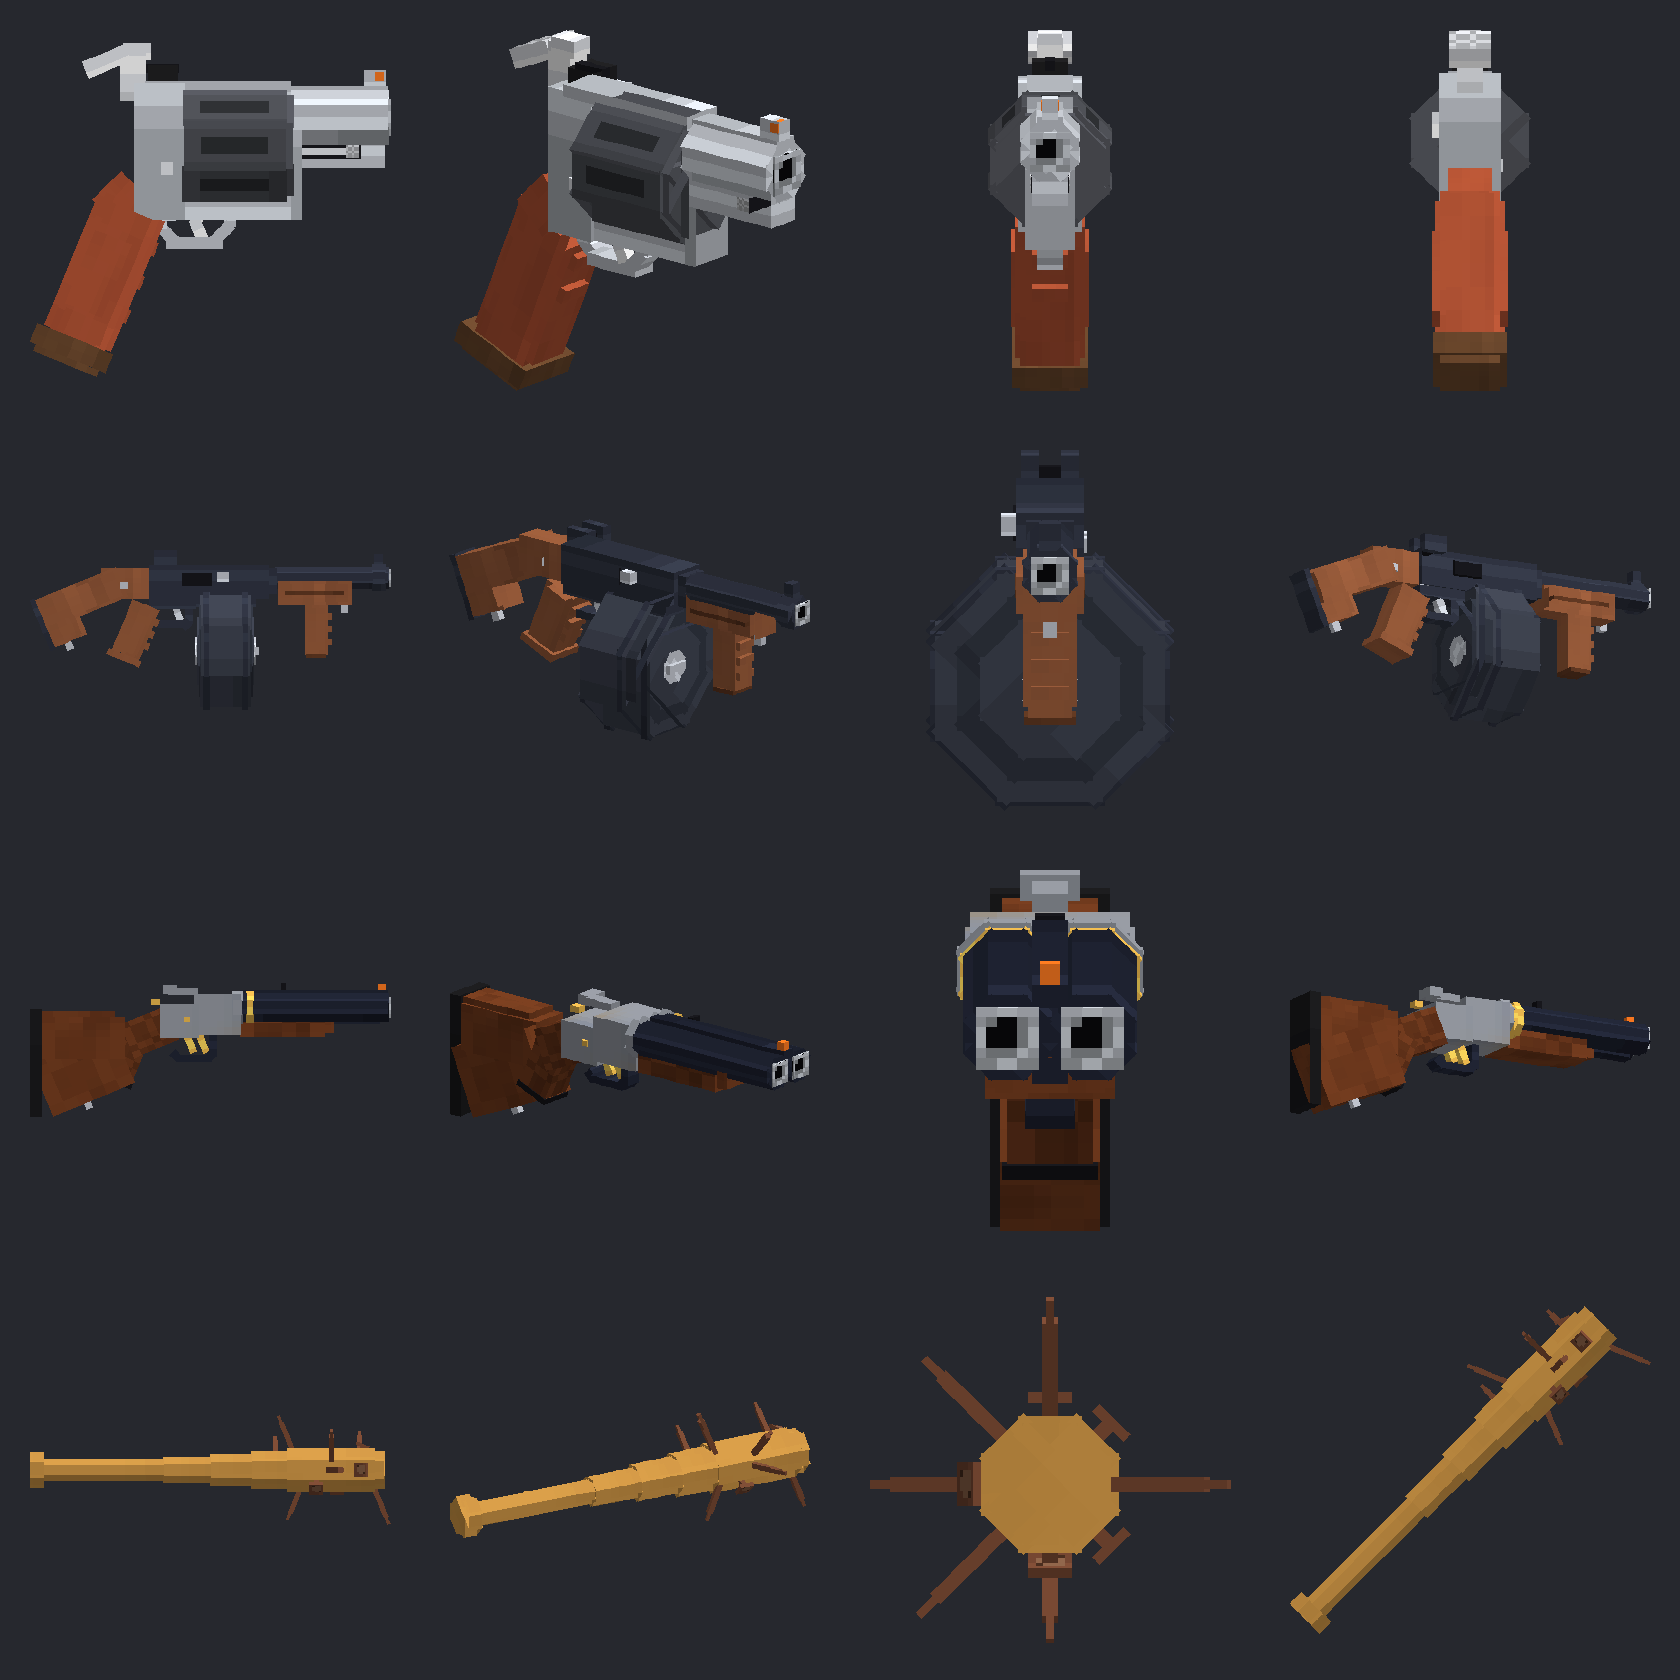
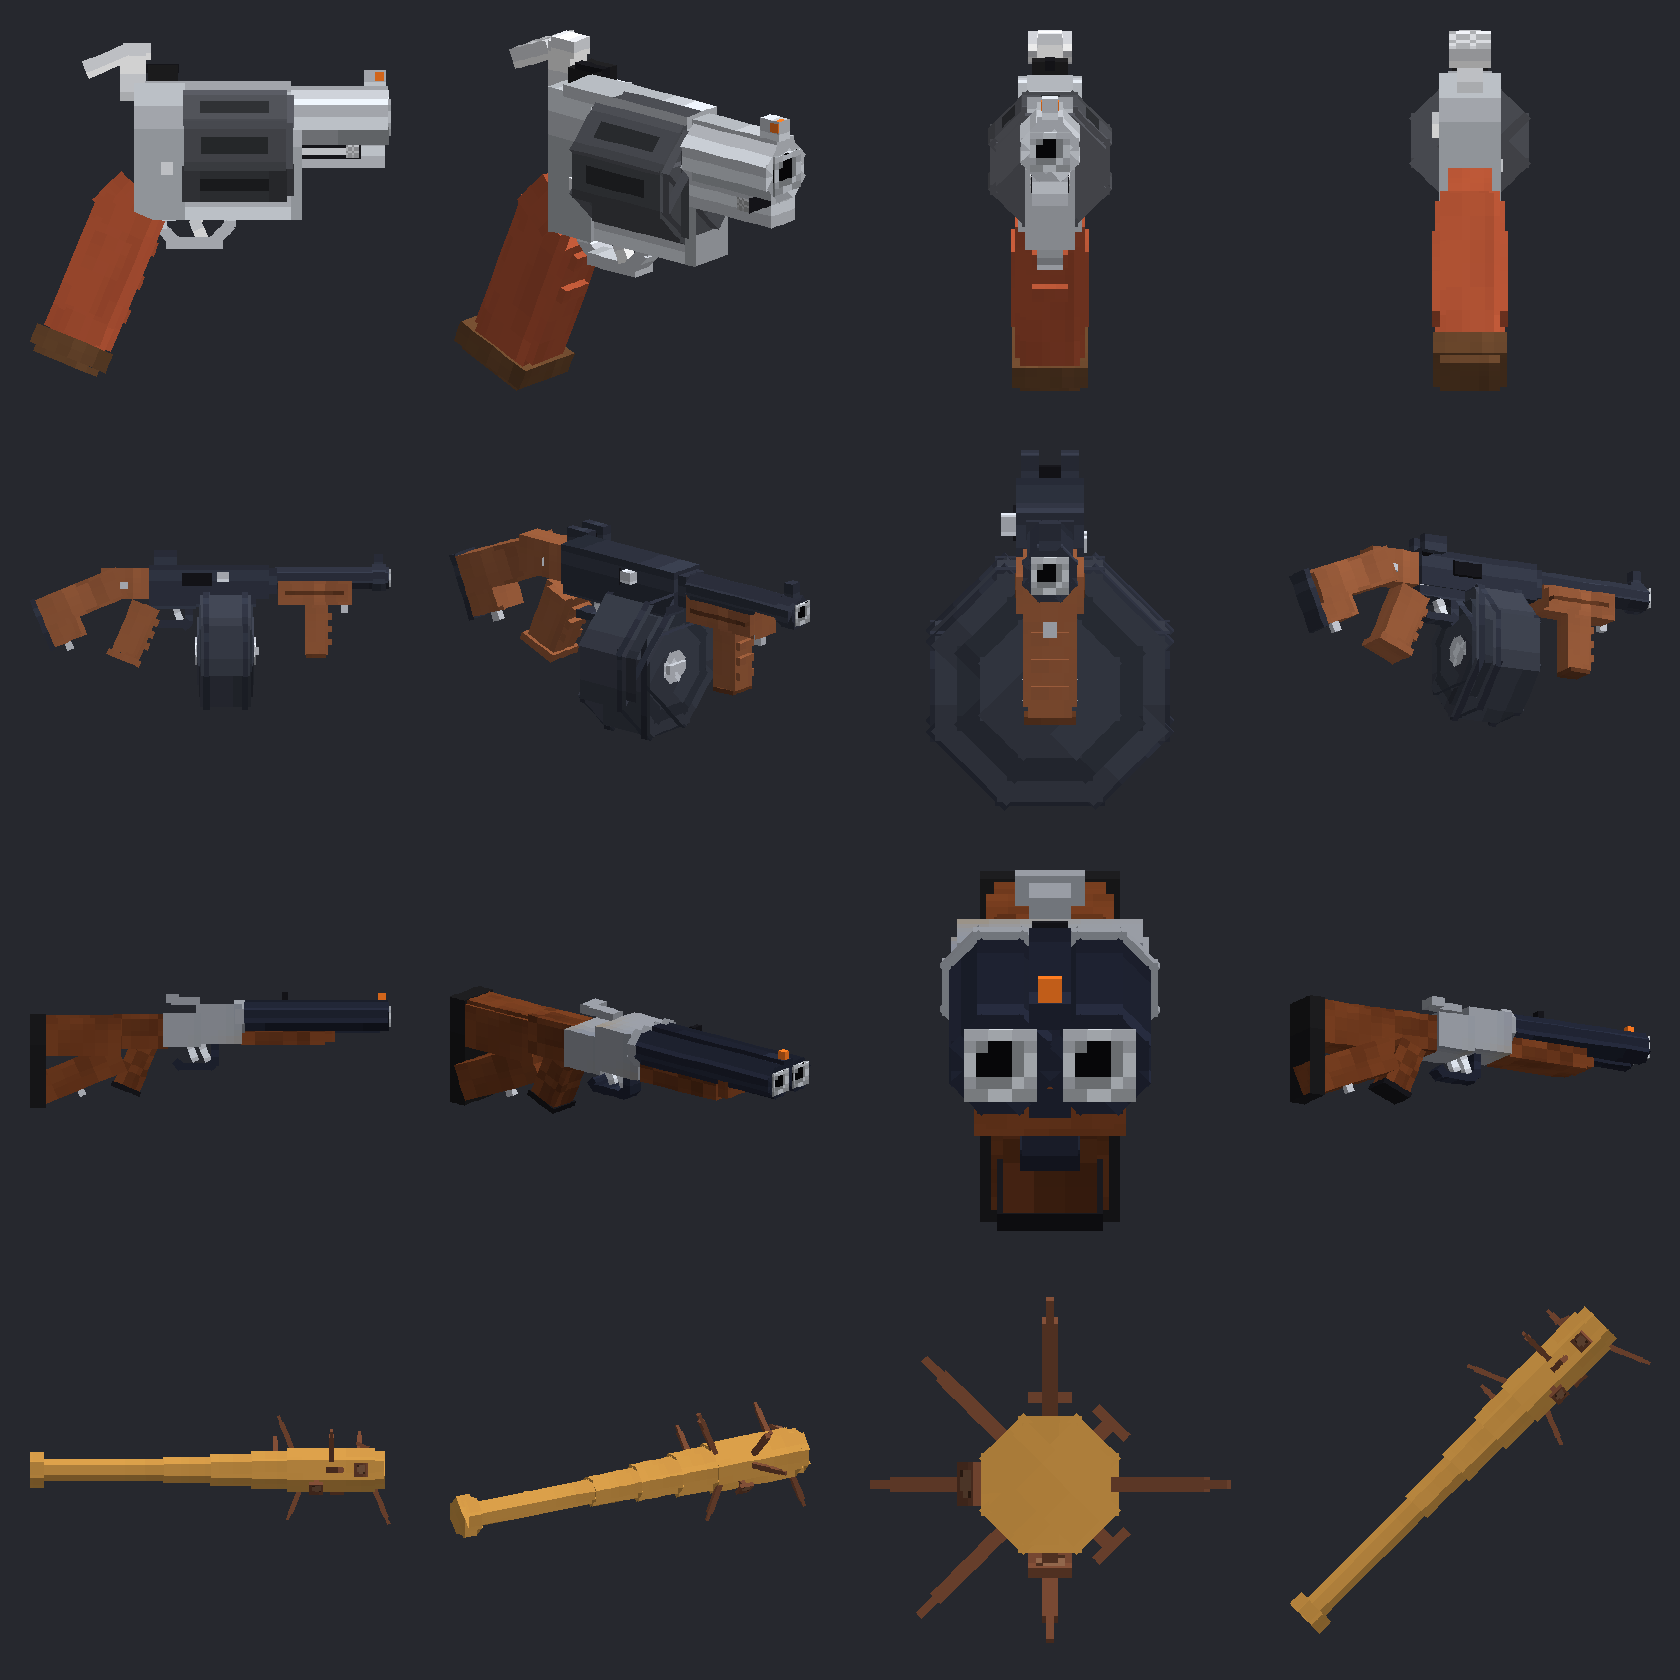
Double Barrel: no gold trim, steel triggers, stock rebuilt as one continuous shape
Claude-Session: https://claude.ai/code/session_01G8stAj2NsEdEgKC46eLYfu

diff --git a/tools/make_pack.py b/tools/make_pack.py
@@ -342,8 +342,8 @@ box((7.6, 4.6, 27.8), (8.4, 5.6, 28.6), "polished", rot=ST)          # sling swi
 TOMMY = elements
 
 # ---------------- geometry: double-barrel shotgun ----------------
-# A side-by-side double modelled on a fine English sidelock (blued barrels with gold bands, case-hardened action,
-# figured walnut, cheekpiece, black recoil pad), with cartoon proportions: short fat barrels, chunky everything.
+# A side-by-side double modelled on a fine English sidelock (blued barrels, case-hardened action, figured walnut,
+# cheekpiece, black recoil pad), with cartoon proportions: short fat barrels, chunky everything, no gold trim.
 rng_sg = random.Random(23)
 def tex_case():
     """Colour case-hardening, cartoon style: a few big soft patches of grey, blue and amber."""
@@ -368,7 +368,7 @@ def tex_checkered(base):
         for x in range(16):
             if (x + y) % 3 == 0 or (x - y) % 3 == 0: px[x, y] = shade(px[x, y], 0.84)
     return im
-SG_TEX = {"blued": tex_metal((30, 34, 48), 5), "case": tex_case(), "gold": tex_metal((214, 168, 72), 10),
+SG_TEX = {"blued": tex_metal((30, 34, 48), 5), "case": tex_case(),
           "orange": flat((255, 110, 30), 6), "bore": tex_bore(), "dark": flat((22, 22, 26)),
           "polished": tex_metal((176, 180, 188), 5), "walnut": tex_figured((112, 58, 30)),
           "checkered": tex_checkered((112, 58, 30)), "rubber": flat((26, 26, 28), 3)}
@@ -376,9 +376,8 @@ for k, im in SG_TEX.items(): im.save(path("assets", NS, "textures", "item", "sho
 
 elements = []
 # two fat barrels side by side, a flat rib on top with an orange bead and a little rear sight
-for bx, d in ((6.3, 0.0), (9.7, 0.02)):   # d: the right barrel's parts sit a hair apart so overlaps never z-fight
+for bx in (6.3, 9.7):
     round_prism(bx, 11.0, 3.4, -14.0, 4.6, "blued")
-    round_prism(bx, 11.0 + d, 3.8, 3.0 + d, 3.6 + d, "gold")            # gold band near the breech
     box((bx - 1.25, 9.75, -14.32), (bx + 1.25, 12.25, -14.22), "bore")  # muzzle
 box((7.3, 12.2, -14.0), (8.7, 13.1, 4.6), "blued")                     # top rib
 box((7.3, 9.0, -13.0), (8.7, 10.0, 4.5), "blued")                      # bottom rib
@@ -389,12 +388,9 @@ box((4.8, 7.6, 4.6), (11.2, 12.6, 10.4), "case")
 round_prism(6.3, 11.0, 4.0, 4.4, 5.4, "case")                          # fences
 round_prism(9.7, 11.02, 4.0, 4.42, 5.42, "case")
 box((4.6, 7.2, 9.8), (11.4, 11.4, 14.6), "case")                       # side plates
-box((4.5, 9.2, 11.0), (4.6, 9.8, 11.6), "gold")                        # lock pins
-box((11.4, 9.2, 11.0), (11.5, 9.8, 11.6), "gold")
-# top lever and safety on the tang
+# top lever on the tang
 box((7.3, 12.6, 10.0), (8.7, 13.4, 13.6), "case")
 box((6.8, 12.8, 12.6), (9.2, 13.8, 14.2), "case")                      # thumbpiece
-box((7.5, 11.4, 14.8), (8.5, 12.0, 15.8), "gold")                      # safety slide
 # splinter forend under the barrels, checkered on the sides
 box((5.4, 7.4, -6.0), (10.6, 9.8, 4.6), "walnut", {"east": "checkered", "west": "checkered"})
 box((5.8, 7.8, -7.2), (10.2, 9.6, -6.0), "walnut")                     # rounded tip
@@ -403,21 +399,21 @@ box((7.0, 4.2, 8.2), (9.0, 5.0, 12.6), "blued")
 box((7.05, 4.8, 7.6), (8.95, 7.6, 8.4), "blued")
 box((7.0, 4.4, 7.8), (9.0, 5.4, 9.0), "blued", rot=("x", 45, (8, 5.0, 8.4)))
 box((7.0, 4.4, 12.0), (9.0, 5.4, 13.2), "blued", rot=("x", -45, (8, 5.0, 12.6)))
-box((7.5, 5.2, 9.2), (8.5, 7.6, 10.0), "gold", rot=("x", 22.5, (8, 7.2, 9.6)))      # front trigger
-box((7.5, 5.2, 10.8), (8.5, 7.6, 11.6), "gold", rot=("x", 22.5, (8, 7.2, 11.2)))    # back trigger
-# stock: a checkered wrist dropping to a pistol grip, then a figured butt with a cheekpiece and a recoil pad
-WR = ("x", 22.5, (8, 11.0, 14.0))
-box((6.0, 6.6, 14.0), (10.0, 11.2, 20.0), "checkered", rot=WR)         # wrist
-PG = ("x", -22.5, (8, 7.0, 18.0))
-box((6.3, 1.6, 16.2), (9.7, 7.4, 19.8), "checkered", rot=PG)           # pistol grip
-box((6.1, 1.0, 16.0), (9.9, 1.6, 20.0), "dark", rot=PG)                # grip cap
-box((5.8, 4.6, 19.2), (10.2, 9.8, 29.6), "walnut")                     # butt
-box((6.1, 9.8, 20.4), (9.9, 10.5, 29.6), "walnut")                     # rounded comb
-BELLY = ("x", 22.5, (8, 5.0, 19.4))
-box((6.0, 1.2, 19.4), (10.0, 9.0, 30.4), "walnut", rot=BELLY)          # underside sloping down to the toe
-box((5.3, 5.4, 21.4), (5.8, 9.2, 28.2), "walnut")                      # cheekpiece (left side)
-box((5.6, -2.8, 29.6), (10.4, 10.7, 31.0), "rubber")                   # recoil pad
-box((7.6, 0.4, 25.4), (8.4, 1.2, 26.2), "polished", rot=BELLY)         # sling swivel
+box((7.5, 5.2, 9.2), (8.5, 7.6, 10.0), "polished", rot=("x", 22.5, (8, 7.2, 9.6)))  # front trigger
+box((7.5, 5.2, 10.8), (8.5, 7.6, 11.6), "polished", rot=("x", 22.5, (8, 7.2, 11.2)))  # back trigger
+# stock: one continuous shape. A slim checkered wrist off the action, a pistol grip hanging down behind the
+# triggers, a level comb, and an underside that slopes smoothly down to the toe of a black recoil pad.
+box((6.2, 7.0, 14.0), (9.8, 11.3, 21.0), "checkered")                  # wrist
+PG = ("x", -22.5, (8, 7.2, 17.0))
+box((6.4, 1.6, 15.4), (9.6, 7.4, 18.8), "checkered", rot=PG)           # pistol grip
+box((6.2, 1.0, 15.2), (9.8, 1.6, 19.0), "dark", rot=PG)                # grip cap
+box((5.8, 6.0, 20.0), (10.2, 10.8, 29.6), "walnut")                    # butt
+box((6.1, 10.8, 21.0), (9.9, 11.2, 29.6), "walnut")                    # rounded comb
+BELLY = ("x", 22.5, (8, 6.0, 20.0))
+box((6.0, 4.0, 20.0), (10.0, 8.0, 31.4), "walnut", rot=BELLY)          # underside sloping down to the toe
+box((5.3, 6.6, 22.0), (5.8, 9.8, 28.0), "walnut")                      # cheekpiece (left side)
+box((5.6, -0.6, 29.6), (10.4, 11.3, 31.6), "rubber")                   # recoil pad
+box((7.6, 3.2, 26.0), (8.4, 4.0, 26.8), "polished", rot=BELLY)         # sling swivel
 SHOTGUN = elements
 
 # ---------------- maths for preview + auto-centring ----------------
